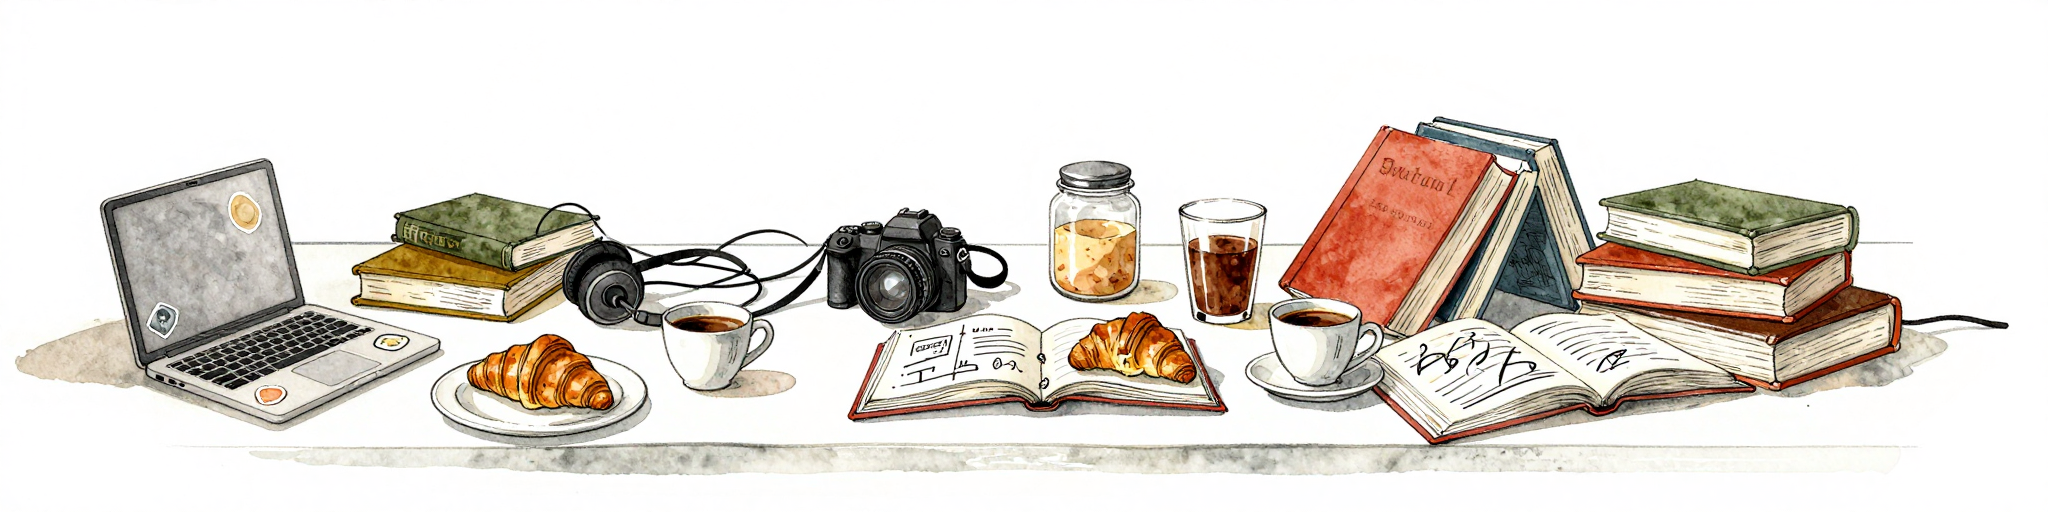
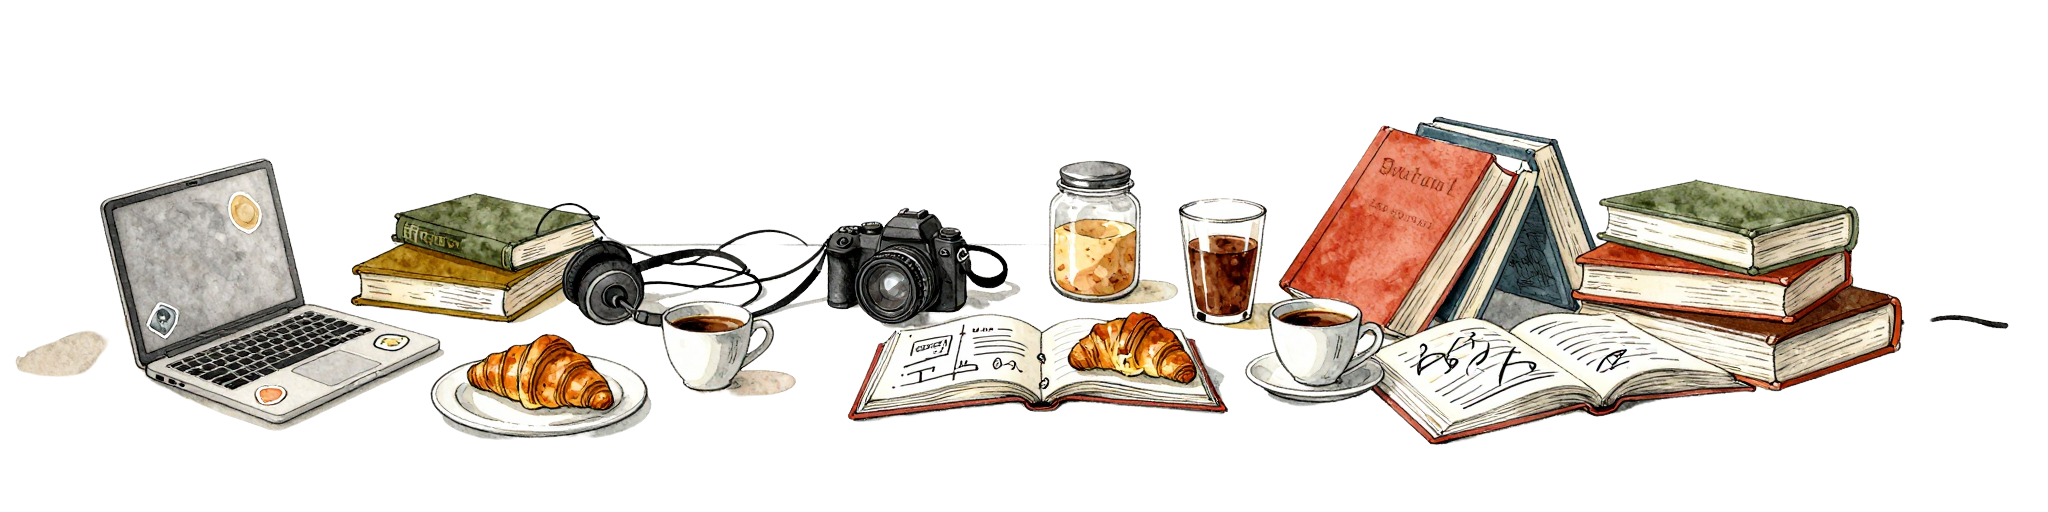
fix: compact section dividers + replace with no-background images
Swap divider PNGs with transparent-background versions from LI B SF.
Make SectionDivider compact: reduce padding (pt-6/pb-4), shrink
illustration max-width to 500px, tighten gaps between illustration,
title, subtitle, and lines. Matches New Yorker section header density.

diff --git a/components/SectionDivider.tsx b/components/SectionDivider.tsx
@@ -8,29 +8,29 @@ interface SectionDividerProps {
 
 export default function SectionDivider({ image, title, subtitle }: SectionDividerProps) {
   return (
-    <section className="py-16 md:py-20 flex flex-col items-center px-6">
-      <div className="w-[60%] h-px bg-grey/20 mb-10" />
+    <section className="pt-6 pb-4 flex flex-col items-center px-6">
+      <div className="w-[60%] h-px bg-grey/20 mb-4" />
 
-      <div className="relative w-[95%] max-w-[800px] aspect-[16/7]">
+      <div className="relative w-[90%] max-w-[500px] aspect-[16/7]">
         <Image
           src={image}
           alt={title}
           fill
           className="object-contain"
-          sizes="(max-width: 768px) 95vw, 800px"
+          sizes="(max-width: 768px) 90vw, 500px"
         />
       </div>
 
-      <h2 className="font-serif text-sm md:text-base uppercase tracking-[0.2em] text-ink mt-8 mb-1">
+      <h2 className="font-serif text-sm md:text-base uppercase tracking-[0.2em] text-ink mt-2">
         {title}
       </h2>
       {subtitle && (
-        <p className="font-body text-sm italic text-grey">
+        <p className="font-body text-sm italic text-grey mt-1">
           {subtitle}
         </p>
       )}
 
-      <div className="w-[60%] h-px bg-grey/20 mt-10" />
+      <div className="w-[60%] h-px bg-grey/20 mt-3" />
     </section>
   );
 }
